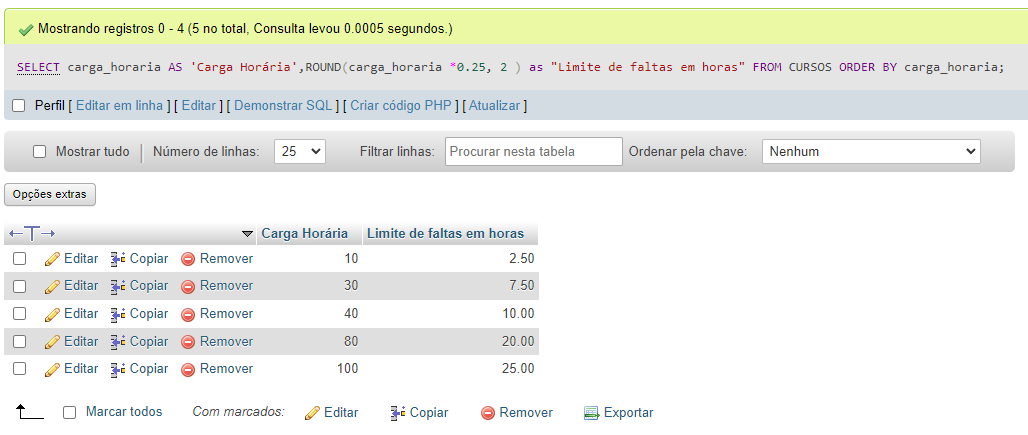
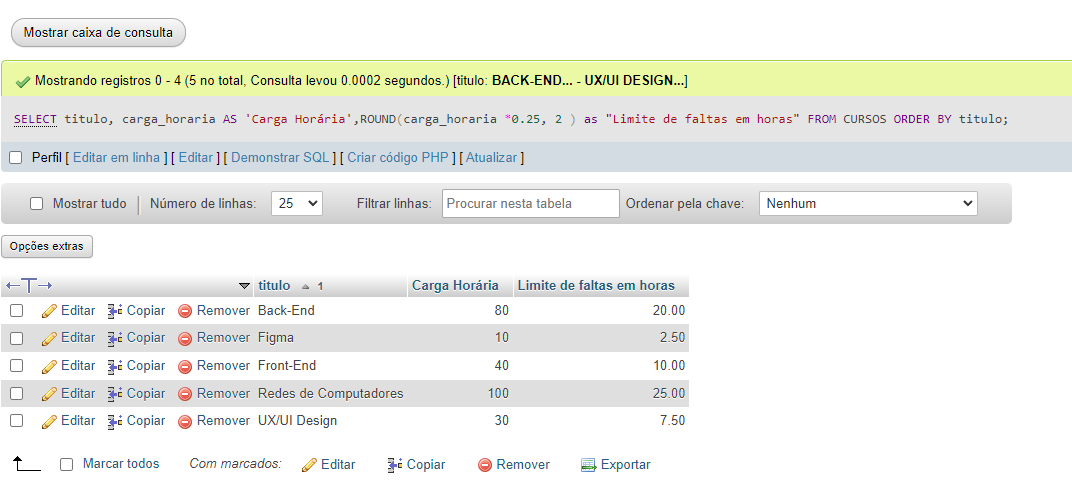
Exercício até o 9

diff --git a/tecinternet_escola_aline.md b/tecinternet_escola_aline.md
@@ -168,21 +168,76 @@ SELECT nome AS 'ALunos',ROUND((primeira_nota + segunda_nota)/2, 2 ) as "Média d
 ### 3) Faça uma consulta que calcule o limite de faltas de cada curso de acordo com a carga horária. Considere o limite como 25% da carga horária. Classifique em ordem crescente pelo título do curso.
 
 ```sql
-SELECT carga_horaria AS 'Carga Horária',ROUND(carga_horaria *0.25, 2 ) as "Limite de faltas em horas" FROM CURSOS ORDER BY carga_horaria;
+SELECT titulo, carga_horaria AS 'Carga Horária',ROUND(carga_horaria *0.25, 2 ) as "Limite de faltas em horas" 
+FROM CURSOS ORDER BY titulo;
 ```
 ![](etapa3-exercicicio3.PNG)
 
 ### 4) Faça uma consulta que mostre os nomes dos professores que são somente da área "desenvolvimento".
 
 ```sql
-SELECT nome AS 'Professor', area_de_atuacao AS 'Área' FROM professores WHERE area_de_atuacao LIKE '%desenvolvimento%' OR nome LIKE '%desenvolvimento%';
+SELECT nome AS 'Professor', area_de_atuacao AS 'Área' 
+FROM professores WHERE area_de_atuacao LIKE '%desenvolvimento%'; 
 ```
 ![](etapa3-exercicicio4.PNG)
 
 ### 5) Faça uma consulta que mostre a quantidade de professores que cada área ("design", "infra", "desenvolvimento") possui.
 
 ```sql
+SELECT area_de_atuacao, COUNT( * ) as "Qtd de Professores Por Cursos" 
+FROM professores 
+GROUP BY area_de_atuacao; 
 ```
+![](etapa3-exercicicio5.PNG)
+
+### 6) Faça uma consulta que mostre o nome dos alunos, o título e a carga horária dos cursos que fazem.
+
+```sql
+SELECT alunos.nome AS 'Alunos', cursos.titulo AS 'Titulo', cursos.carga_horaria AS 'Carga Horária' 
+FROM alunos 
+INNER JOIN cursos 
+ON alunos.curso_id = cursos.id;
+```
+![](etapa3-exercicicio6.PNG)
+
+### 7) Faça uma consulta que mostre o nome dos professores e o título do curso que lecionam. Classifique pelo nome do professor.
+
+```sql
+SELECT professores.nome AS 'Professor', cursos.titulo AS 'Titulo' FROM professores 
+INNER JOIN cursos ON professores.curso_id = cursos.id 
+ORDER BY nome;
+```
+![](etapa3-exercicicio7.PNG)
+
+### 8) Faça uma consulta que mostre o nome dos alunos, o título dos cursos que fazem, e o professor de cada curso.
+
+```sql
+SELECT alunos.nome AS 'Alunos', cursos.titulo AS 'Titulo', professores.nome AS 'Professores' 
+FROM alunos 
+JOIN cursos 
+ON alunos.curso_id = cursos.id 
+JOIN professores 
+ON cursos.professor_id = professores.id 
+```
+![](etapa3-exercicicio8.PNG)
+
+
+### 9) Faça uma consulta que mostre a quantidade de alunos que cada curso possui. Classifique os resultados em ordem descrecente de acordo com a quantidade de alunos.
+
+```sql
+SELECT
+cursos.titulo AS 'Alunos',    
+COUNT(alunos.curso_id) AS "Qtd de Cursos"
+FROM alunos INNER JOIN cursos 
+ON alunos.curso_id = cursos.id 
+GROUP BY cursos.titulo  
+ORDER BY COUNT(alunos.curso_id) DESC; 
+```
+![](etapa3-exercicicio9.PNG)
+
+
+### 10) Faça uma consulta que mostre o nome dos alunos, suas notas, médias, e o título dos cursos que fazem. Devem ser considerados somente os alunos de Front-End e Back-End. Mostre os resultados classificados pelo nome do aluno.
+
 
 
 
